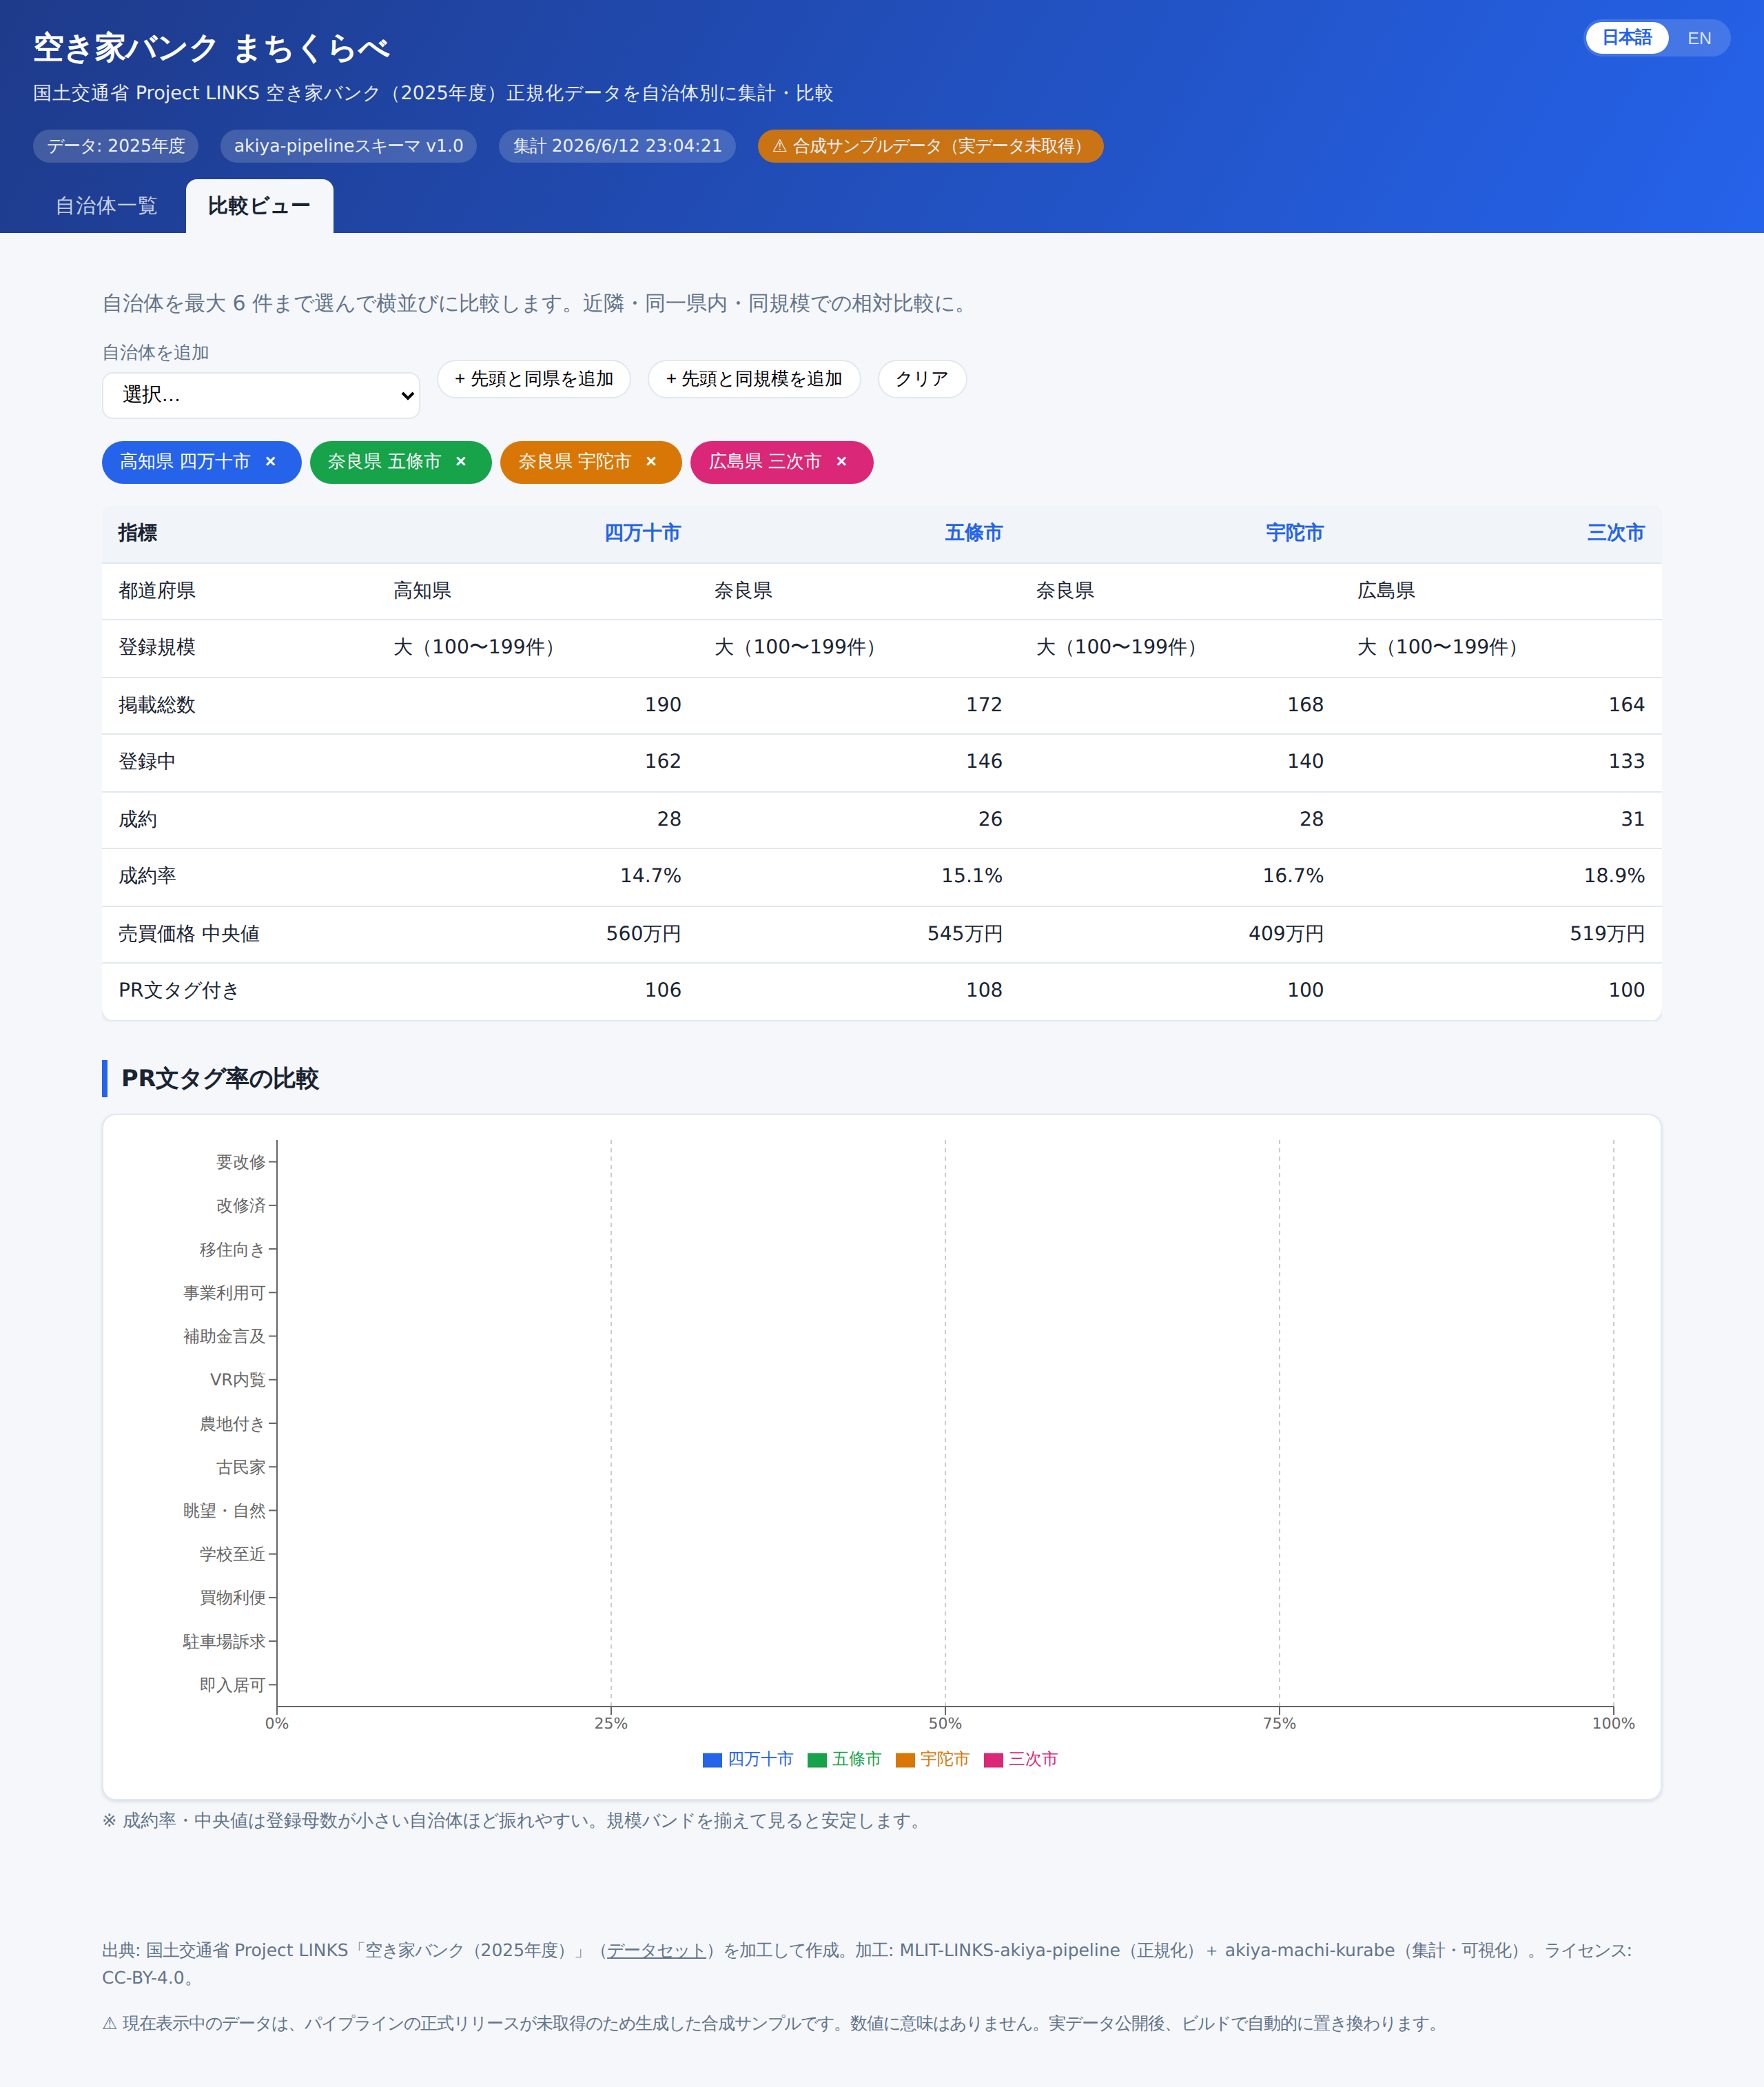
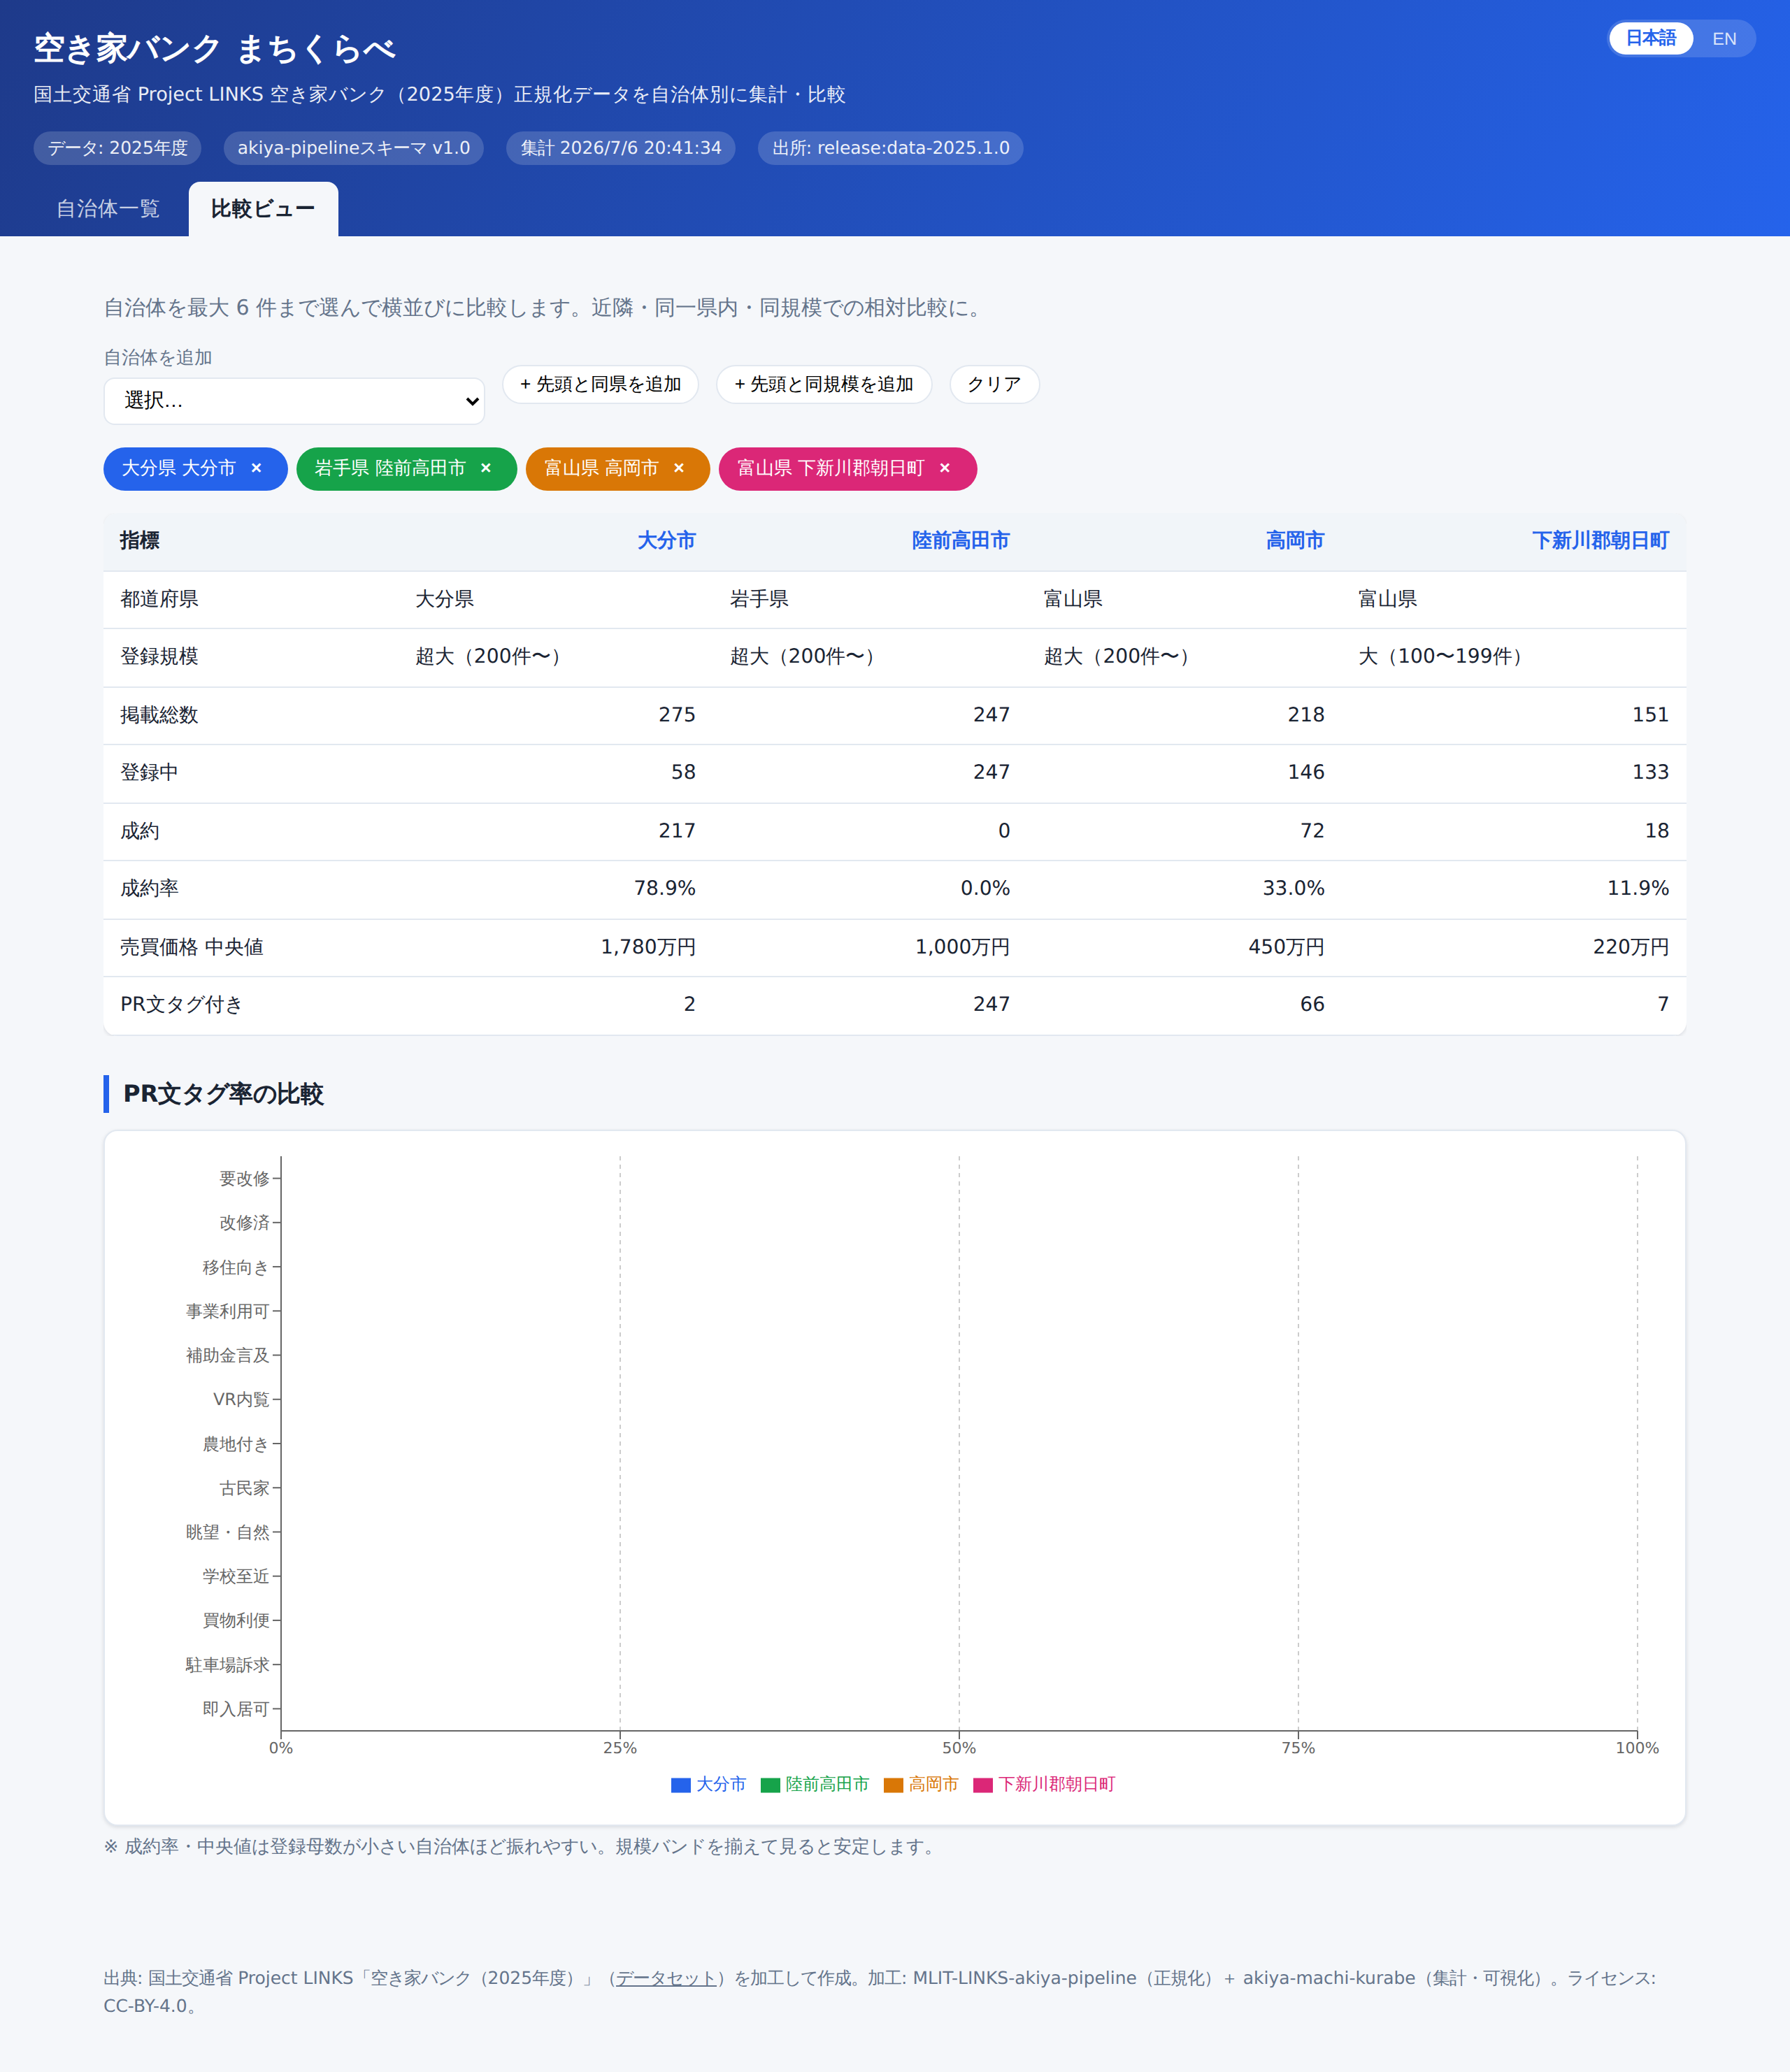
READMEを実データ反映に更新、スクショを実データ画面へ差し替え
- 本番が実データ(release:data-2025.1.0, 623自治体/8,678物件)で稼働している旨に修正
- 「合成サンプルで動作」の注意書きはフォールバック時の説明に変更
- 主な機能に「特徴が似た自治体」を追記
- docs/img の3枚を実データ画面のスクショに更新

diff --git a/README.md b/README.md
@@ -6,9 +6,8 @@
 
 🔗 **デモ:** https://shinyanakashima.github.io/MLIT-LINKS-akiya-machi-kurabe/
 
-> ⚠️ **現在のデータについて**: 元データ（後述のパイプライン）の正式公開が未了のため、
-> デモは**合成サンプルデータ**で動作しています。画面上部に「⚠ 合成サンプルデータ」と表示され、
-> 数値に実質的な意味はありません。実データ公開後はビルドで自動的に置き換わります。
+> **現在のデータ**: 国土交通省 Project LINKS の空き家バンク**実データ**（`data-2025.1.0`、2025 年度・全国 623 自治体 / 8,678 物件）を反映しています。
+> （上流データを取得できないビルドでは、スキーマ準拠の**決定的な合成サンプル**に自動でフォールバックし、その場合のみ画面上部に「⚠ 合成サンプルデータ」と表示します。）
 
 ---
 
@@ -27,7 +26,7 @@
 
 - **自治体一覧** — 全自治体を表で俯瞰。都道府県・登録規模・名称で絞り込み、各指標で並び替え。
 - **自治体詳細** — 取引種別／用途／築年／価格帯の構成、PR 文 12 タグ率の「同県平均・同規模平均」との比較、
-  成約した物件の「型」、改修要否の内訳。
+  成約した物件の「型」、改修要否の内訳、**特徴が似た自治体**（コサイン類似度）。
 - **比較ビュー** — 最大 6 自治体を横並びで比較。「同県を追加」「同規模を追加」のワンクリックプリセット付き。
 - **日本語 / 英語の切替** — 画面右上のトグルで全 UI を切替（既定は日本語、選択はブラウザに保存）。
 - **インストール不要** — サーバや DB を持たない静的サイト。ブラウザだけで動作します。
@@ -38,7 +37,7 @@
 | --- | --- | --- |
 | [![自治体一覧](docs/img/overview.png)](docs/img/overview.png) | [![自治体詳細](docs/img/municipality.png)](docs/img/municipality.png) | [![比較ビュー](docs/img/compare.png)](docs/img/compare.png) |
 
-<sub>※ 画面の数値は現在「合成サンプルデータ」です（[上記の注意](#空き家バンク-まちくらべ)参照）。クリックで拡大。</sub>
+<sub>※ クリックで拡大。画面は実データ（2025 年度）です。</sub>
 
 ## データの流れ（全体像）
 
@@ -129,7 +128,7 @@
 | 改修要否 | 物件が要改修／改修済／現状渡し／不明のいずれかの内訳 |
 | 同県平均 / 同規模平均 | 比較の基準値。同一県内、または同じ規模バンドの自治体平均 |
 | 成約した「型」 | 成約物件に多い取引種別・用途・築年などの傾向 |
-| 合成サンプルデータ | 上流データ未公開時に用いる、スキーマ準拠の仮データ（数値に実質的意味はない） |
+| 合成サンプルデータ | 上流データを取得できない時に用いる、スキーマ準拠の仮データ（数値に実質的意味はない） |
 
 ## 開発手順
 
@@ -141,8 +140,8 @@ npm run dev      # データ生成 → 開発サーバ起動（http://localhost:
 ```
 
 `npm run dev` / `npm run build` は実行前に自動でデータを用意します（取得 → 集計）。
-上流の正式リリースがまだ無い間は、**スキーマ準拠の合成サンプル**（`scripts/gen-fixture.mjs`、決定的に生成）に
-自動でフォールバックするため、データが無くても開発・デモを止めません。
+上流リリースを取得できない環境（オフラインやネットワーク制限下）では、**スキーマ準拠の合成サンプル**
+（`scripts/gen-fixture.mjs`、決定的に生成）へ自動でフォールバックするため、開発・デモを止めません。
 
 | コマンド | 内容 |
 | --- | --- |